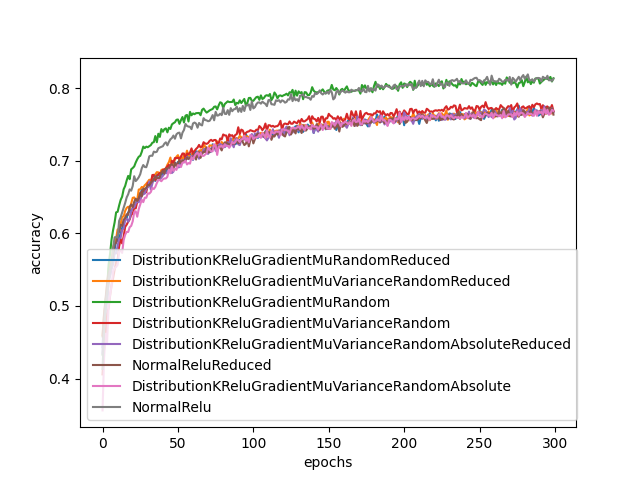
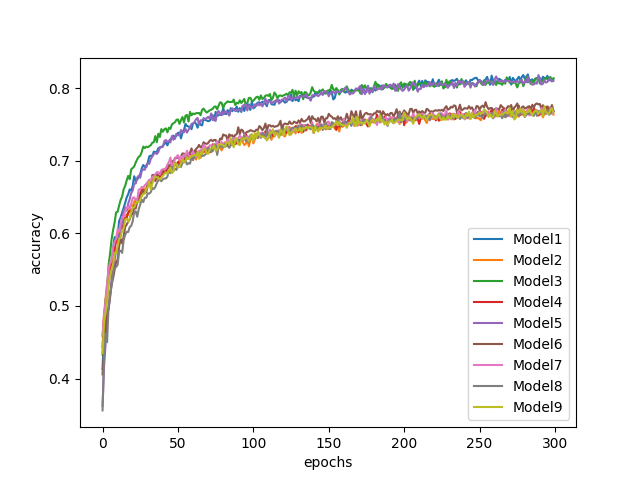
compared models

Changed region(s): [[0.125, 0.1562, 0.9062, 0.875]]

diff --git a/CIFARTrain/Distribution/Comparison/compare_histories.py b/CIFARTrain/Distribution/Comparison/compare_histories.py
@@ -5,14 +5,25 @@ import numpy as np
 
 histories = []
 
+models = [
+  "NormalRelu",
+  "NormalReluReduced",
+  "DistributionKReluGradientMuRandom","DistributionKReluGradientMuRandomReduced",
+  "DistributionKReluGradientMuRandomIncreased",
+  "DistributionKReluGradientMuVarianceRandom",
+  "DistributionKReluGradientMuVarianceRandomReduced",
+  "DistributionKReluGradientMuVarianceRandomAbsolute",
+  "DistributionKReluGradientMuVarianceRandomAbsoluteReduced"
+]
+
 for history_type in ["accuracy", "loss"]:
   plt.figure()
-  for directory in os.listdir("../"):
+  for index, directory in enumerate(models):
     path = os.path.join("../", directory, "model", "model_history.pkl")
     if os.path.exists(path) == True:
       with open(path, "rb") as f:
         history = pickle.load(f)
-        plt.plot(np.arange(len(history[history_type])), history[history_type], label=directory)
+        plt.plot(np.arange(len(history[history_type])), history[history_type], label="Model{}".format(index + 1))
 
   plt.xlabel("epochs")
   plt.ylabel(history_type)
